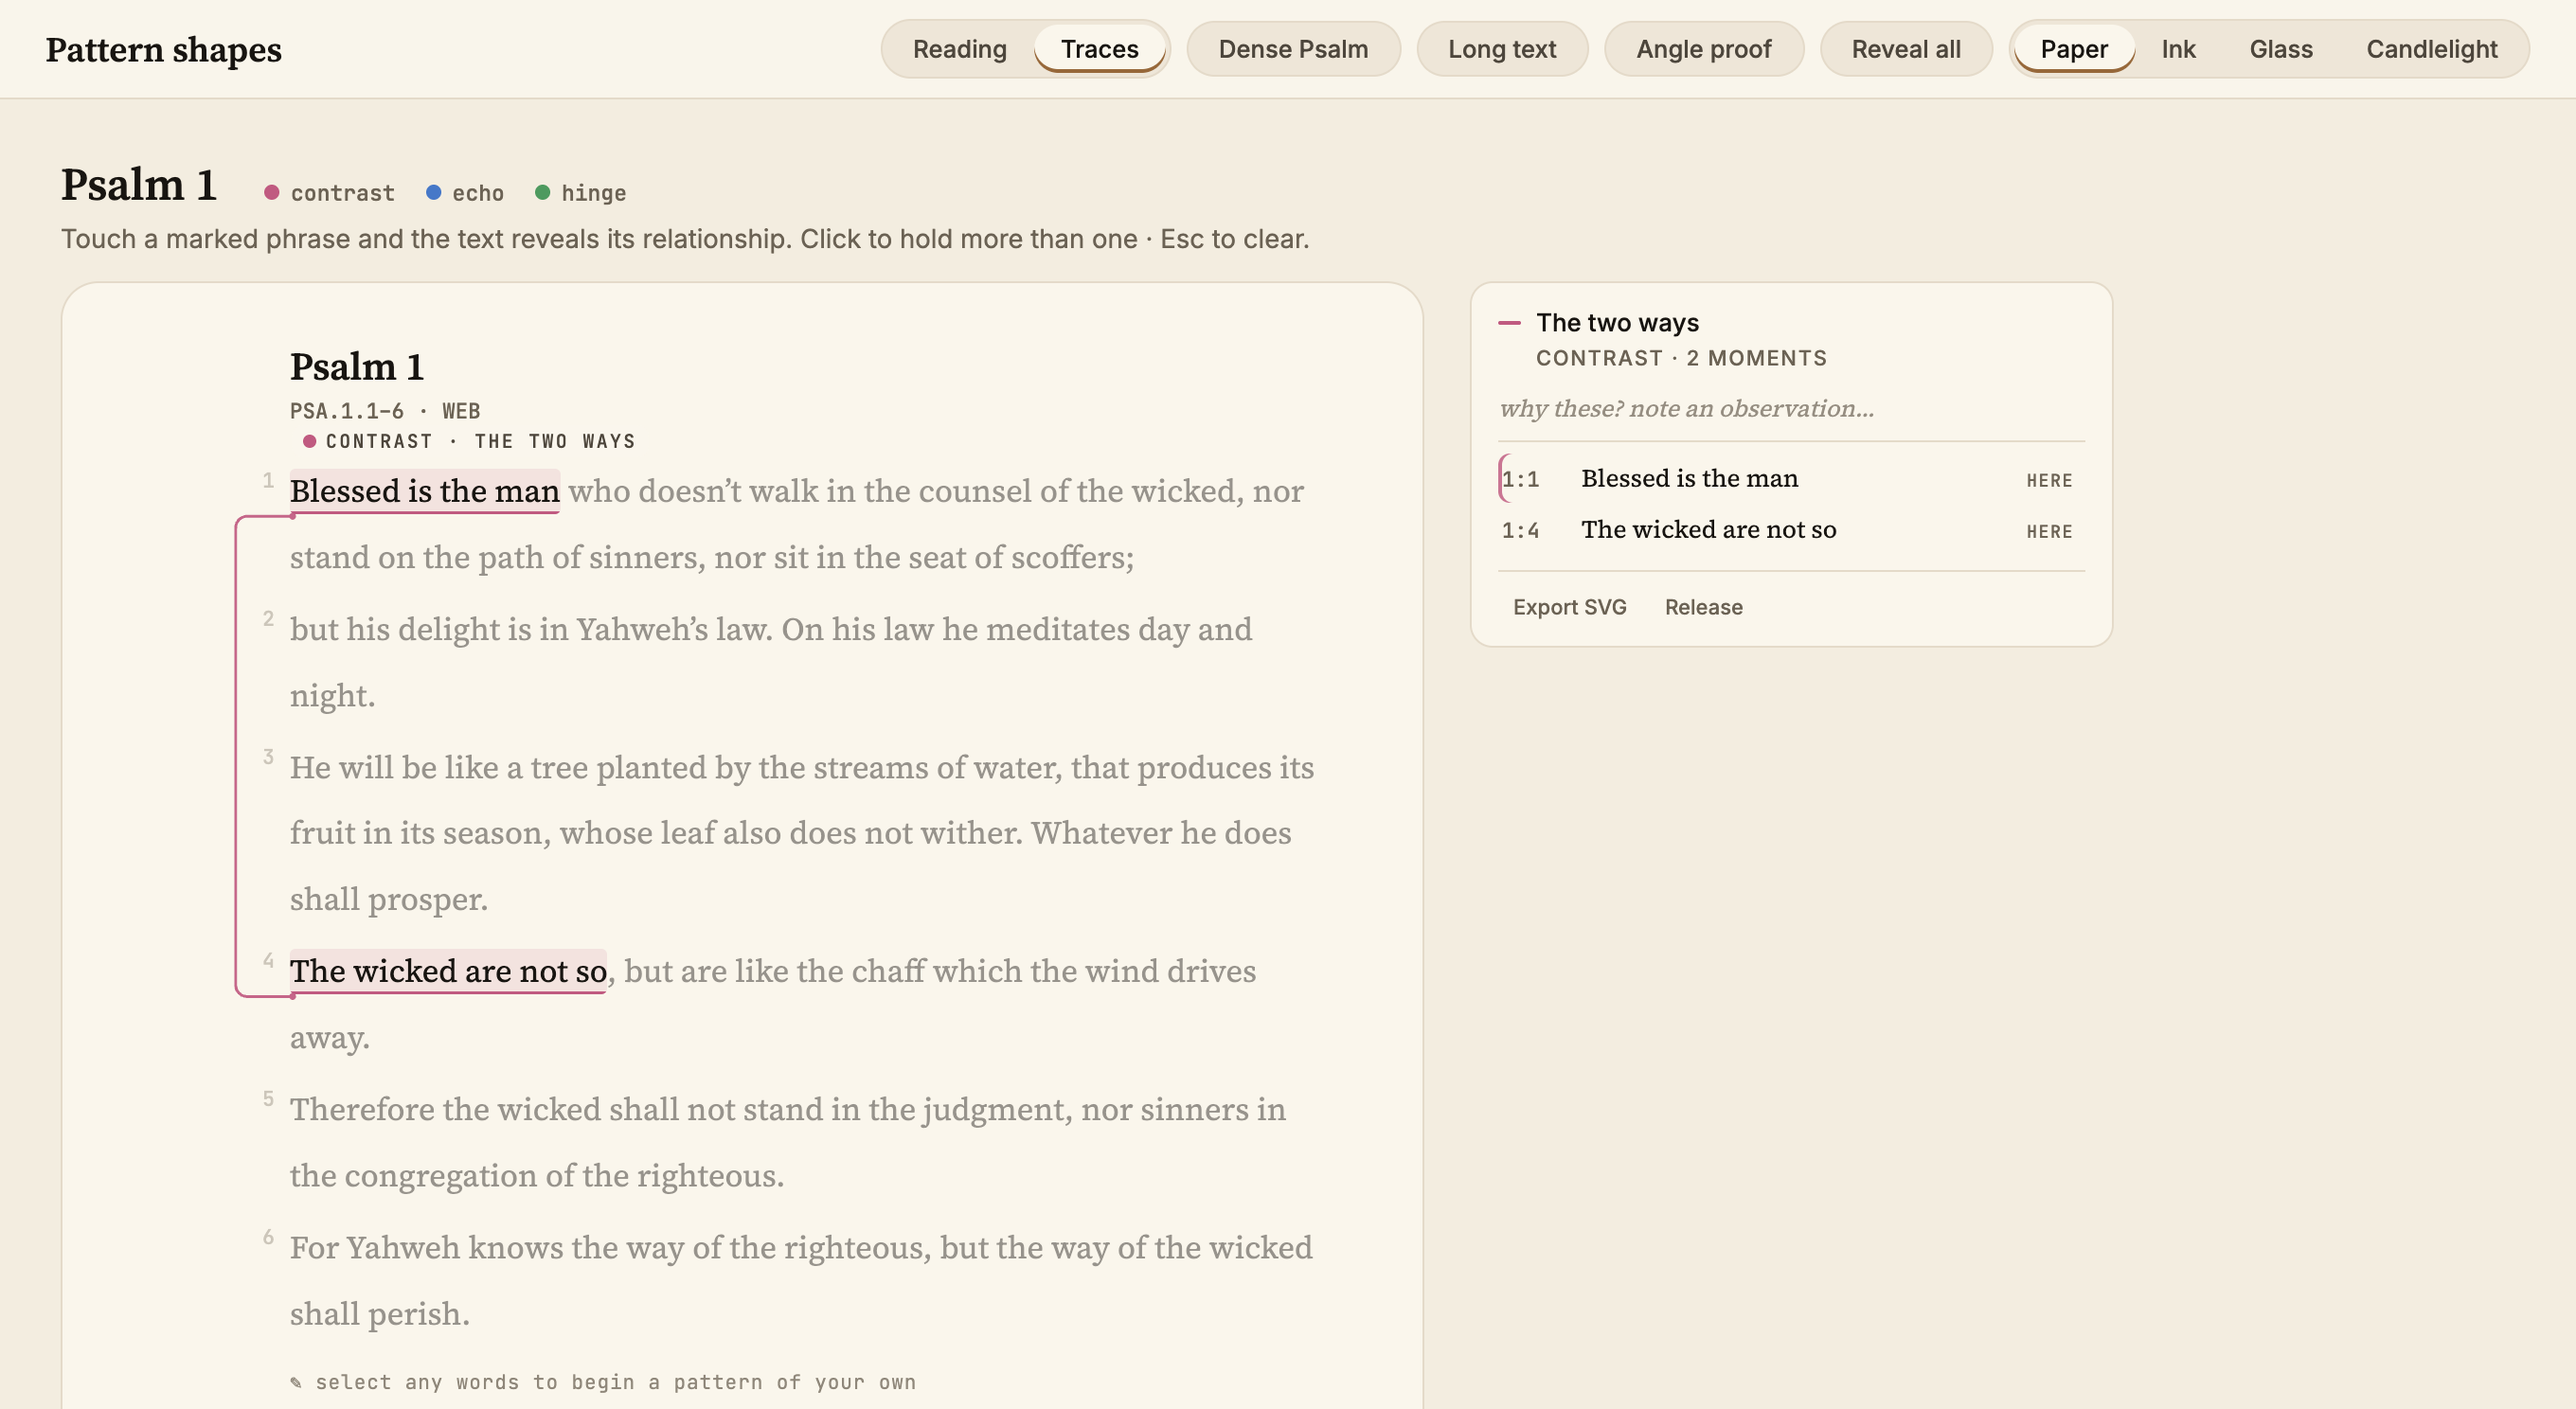
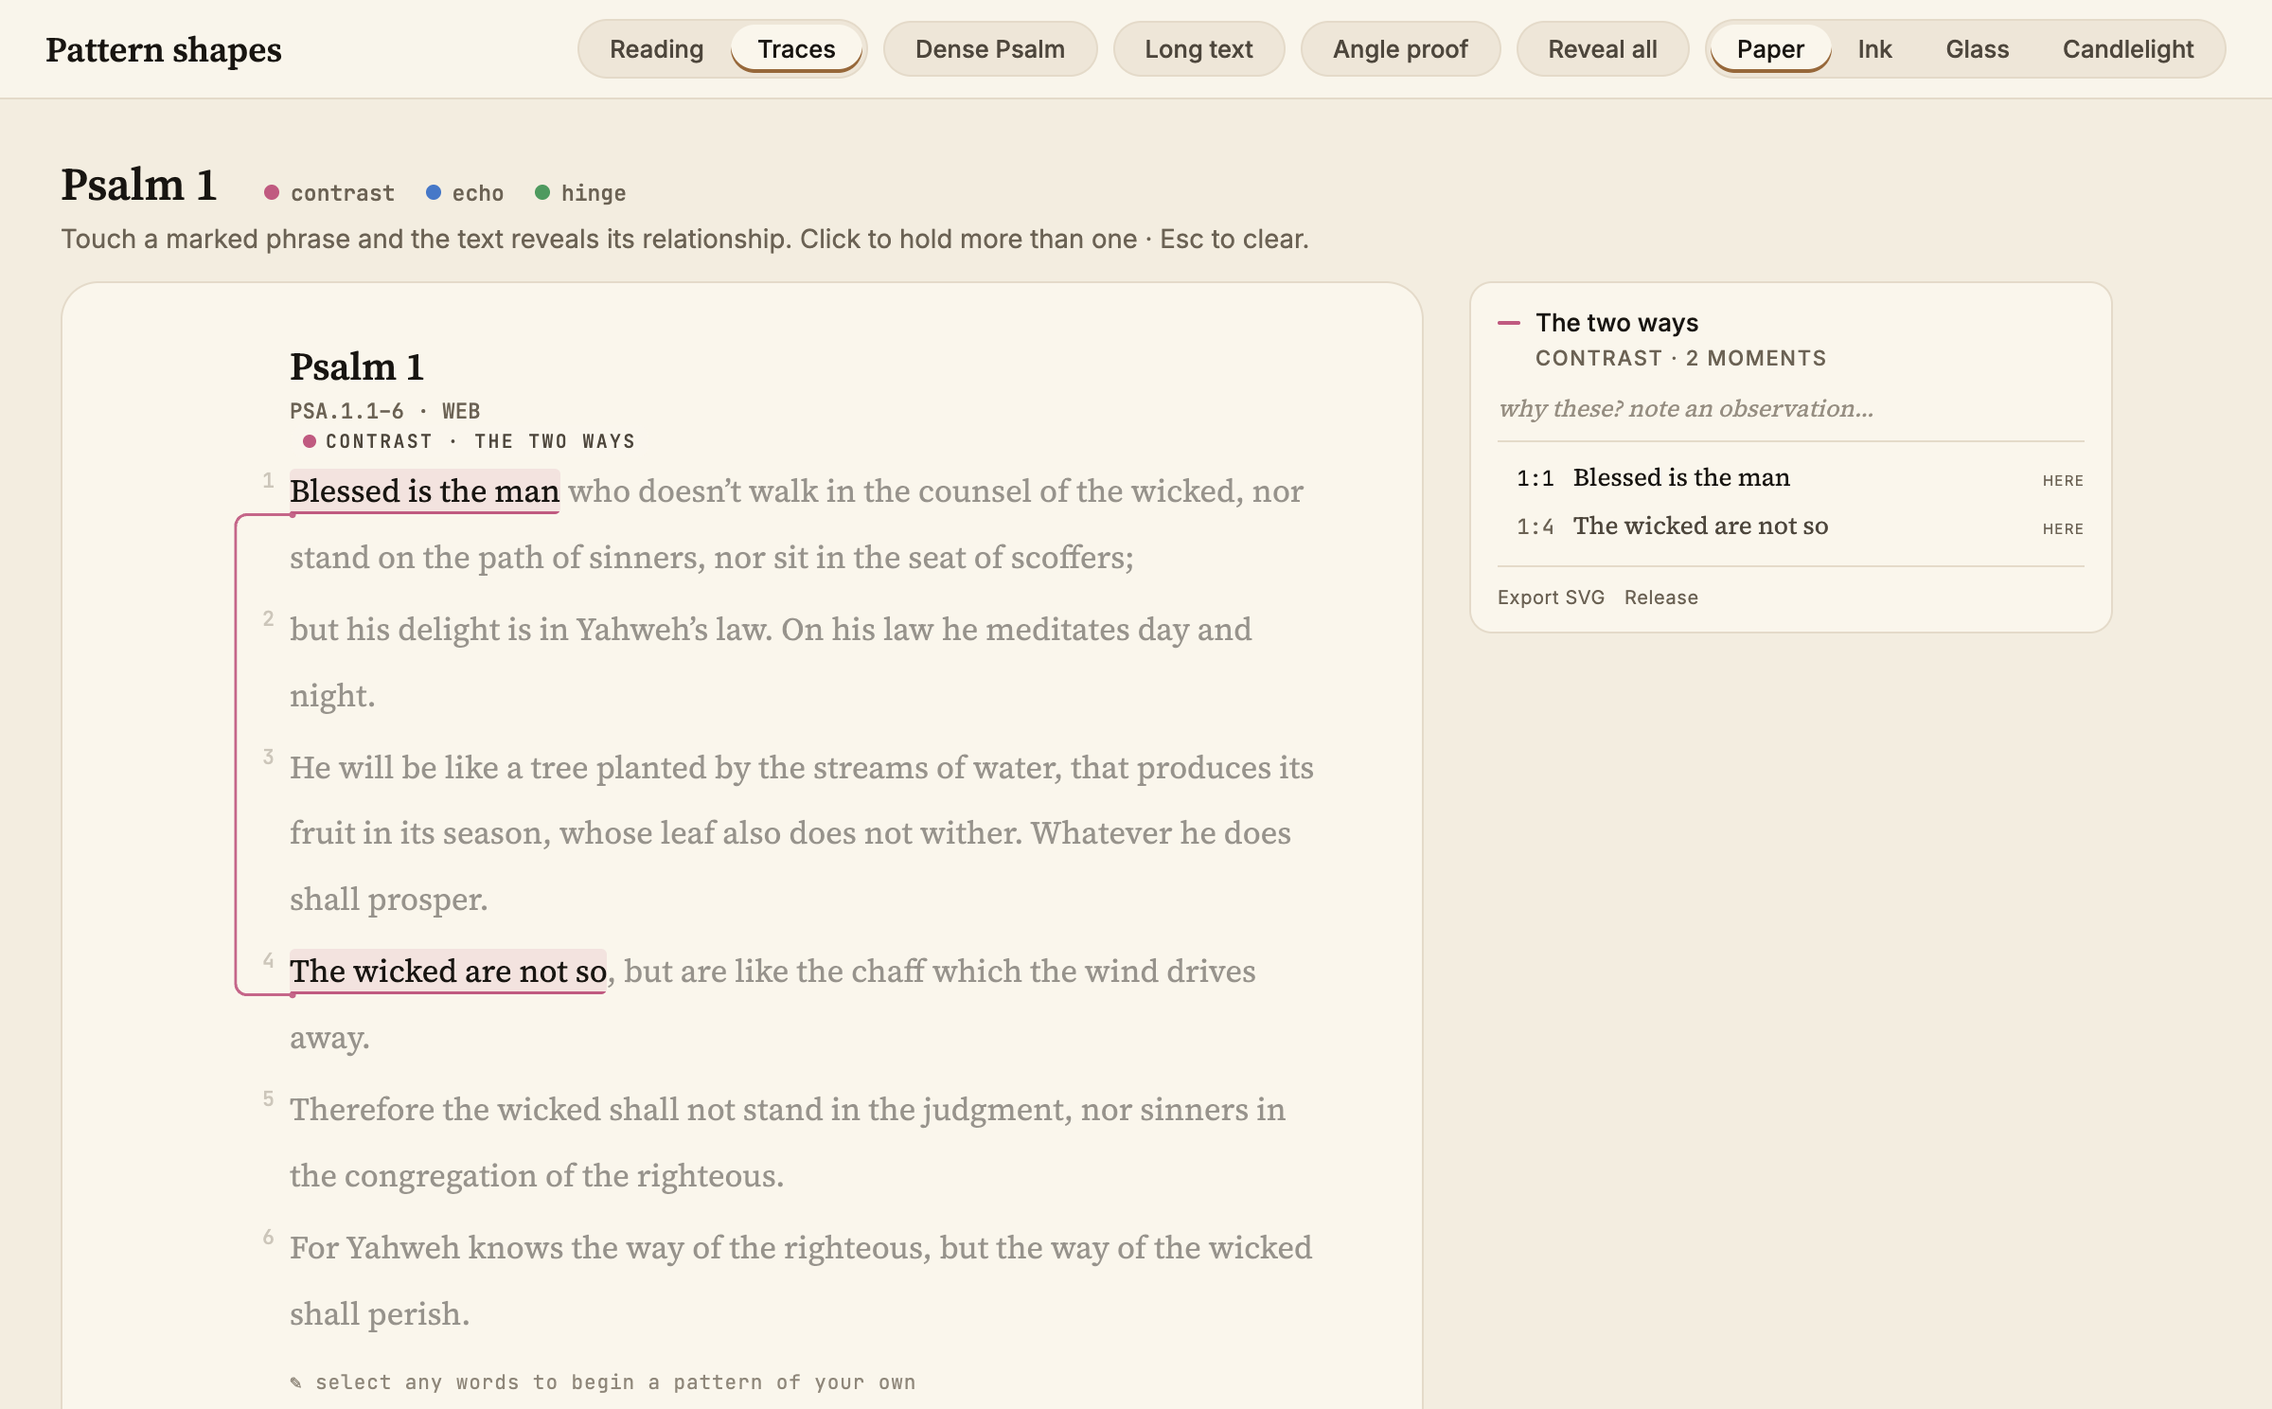
shapes: runs sit on the underline; card sheds its last chrome

diff --git a/shapes/index.html b/shapes/index.html
@@ -147,7 +147,7 @@
       its observation, and its moments — each row a way back into the text. Nothing to browse,
       nothing standing; release it and the margin is just a margin again.</p>
       <figure class="shot">
-        <img src="assets/card.png" alt="The active-connection card: a kind-hue tick beside 'The two ways', the line 'contrast, 2 moments', an observation placeholder, two moment rows (1:1 'Blessed is the man', 1:4 'The wicked are not so') each marked HERE, and quiet Export SVG and Release actions." width="728" height="458" style="max-width: 420px; margin: 0 auto;">
+        <img src="assets/card.png" alt="The active-connection card: a kind-hue tick beside 'The two ways', the line 'contrast, 2 moments', an observation placeholder, two moment rows (1:1 'Blessed is the man', 1:4 'The wicked are not so') each marked HERE, and quiet Export SVG and Release actions — hue lives in exactly one element, the kind tick." width="728" height="436" style="max-width: 420px; margin: 0 auto;">
       </figure>
     </section>
 
@@ -157,10 +157,10 @@
       bracket down the left margin while its card waits quietly at the right. The same surface
       in Paper and Ink.</p>
       <figure class="shot" style="margin-bottom: 18px;">
-        <img src="assets/traces-paper.png" alt="Psalm 1 in the Paper atmosphere: a rose bracket connects 'Blessed is the man' to 'The wicked are not so' down the left margin; the held connection's card sits at right." width="2720" height="1840">
+        <img src="assets/traces-paper.png" alt="Psalm 1 in the Paper atmosphere: a rose bracket connects 'Blessed is the man' to 'The wicked are not so' down the left margin; the held connection's card sits at right." width="2400" height="1488">
       </figure>
       <figure class="shot">
-        <img src="assets/traces-ink.png" alt="The same held relationship in the Ink atmosphere: dark page, the bracket and card in the same quiet language." width="2720" height="1840">
+        <img src="assets/traces-ink.png" alt="The same held relationship in the Ink atmosphere: dark page, the bracket and card in the same quiet language." width="2400" height="1488">
       </figure>
     </section>
 
